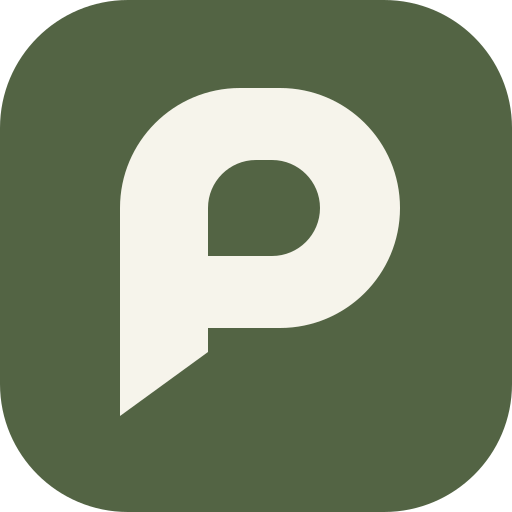
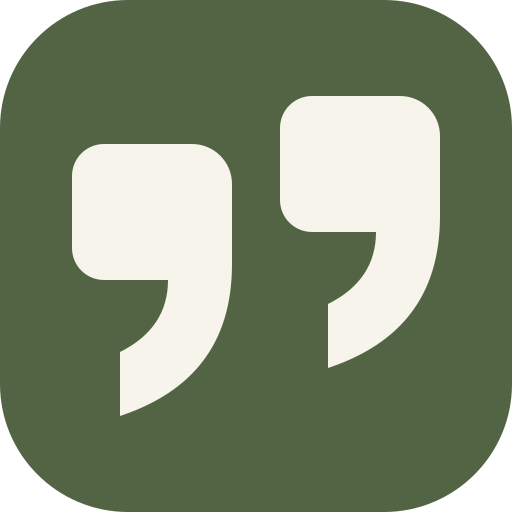
Adopt Echo quotation mark as the Praisly brand symbol

Changed region(s): [[0.125, 0.1562, 0.875, 0.7188], [0.25, 0.7188, 0.375, 0.8125], [0.375, 0.6875, 0.4062, 0.7188]]

diff --git a/src/components/BrandMark.jsx b/src/components/BrandMark.jsx
@@ -1,6 +1,7 @@
-// A lowercase p with an open conversation tail. Keep the counter clear at 16px.
+// Echo: two quotation marks representing customer voices and word of mouth.
 export default function BrandMark() {
   return <svg className="brand-mark" viewBox="0 0 48 48" fill="currentColor" aria-hidden="true" focusable="false">
-    <path fillRule="evenodd" d="M7 44V18C7 9.716 13.716 3 22 3H27C35.284 3 42 9.716 42 18S35.284 33 27 33H18V36L7 44ZM18 18C18 14.686 20.686 12 24 12H26C29.314 12 32 14.686 32 18S29.314 24 26 24H18V18Z" />
+    <path d="M5 10h11a5 5 0 0 1 5 5v10c0 10-5 16-14 19v-8c4-2 6-5 6-9H5a4 4 0 0 1-4-4v-9a4 4 0 0 1 4-4Z" />
+    <path d="M31 4h11a5 5 0 0 1 5 5v10c0 10-5 16-14 19v-8c4-2 6-5 6-9h-8a4 4 0 0 1-4-4V8a4 4 0 0 1 4-4Z" />
   </svg>
 }

diff --git a/index.html b/index.html
@@ -2,7 +2,7 @@
 <html lang="en-IN">
   <head>
     <meta charset="UTF-8" />
-    <link rel="icon" type="image/svg+xml" href="/favicon.svg" />
+    <link rel="icon" type="image/svg+xml" href="/favicon.svg?v=echo" />
     <link rel="alternate icon" type="image/png" sizes="192x192" href="/icon-192.png" />
     <meta name="viewport" content="width=device-width, initial-scale=1.0" />
     <link rel="manifest" href="/manifest.json" />
